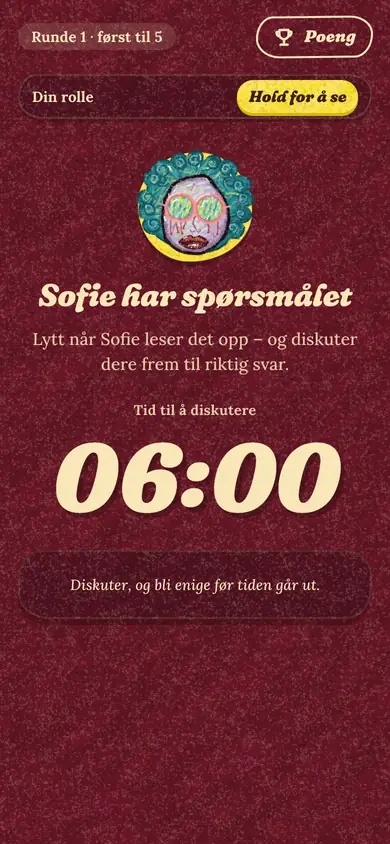
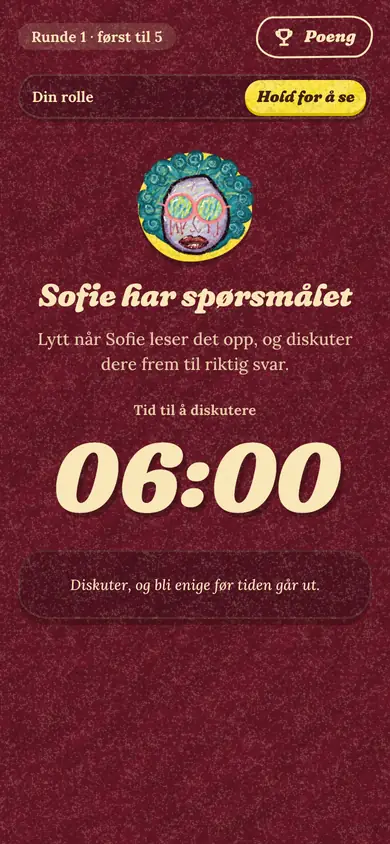
Seks småendringer: rolleskjermen, «Bli med i spill», «Velkommen!» og ingen unødvendige tankestreker
- Under «Hold for å se rollen din» står nå «Skjul rollen din godt!» (var «Hold telefonen inntil deg og dekk til med hånda.»).
- Rollekortet til en lojal spiller er bare rollen: «Riktig svar: Finn det sammen» er fjernet (og i en runde med to imposterer også
  «Imposterne: Finn dem sammen», som sa like lite). Kortet er sentrert og litt større. Imposteren ser fortsatt riktig svar.
- Rollestripen: mer luft under «Riktig svar», og «Hold for å se» står like langt fra høyre kant som fra toppen (8,4 px i holdt tilstand,
  6,4 px i hvile; den trykkede knappen sitter 2 px lavere). For at imposter med partner (holdt) fortsatt skal passe på 390 x 664, har
  klokkefeltet litt mindre luft på lave skjermer.
- «Bli med i spill» på forsiden er en kremfarget knapp som «Min tilgang» og «Se pakkene» (var en omriss-knapp).
- Arket etter betaling heter «Velkommen!» (var «Takk!»), og siste setning er «Den står også i bestillingsbekreftelsen på e-post.»
  Samme ord i hjelpeteksten under «Logg inn» og i feilmeldingen fra butikken. Butikkens egen forside sier fortsatt «Takk!».
- Tankestreker er tatt bort fra alt spillere og kunder ser: tipsene, banneret «Verten betaler, spillet fortsetter straks», feilmeldingene
  om navn og avatar, «Det er sagt, vis poengene», «Uavgjort i teten, én runde til!», «Tiden er ute, bli enige …», titlene og beskrivelsene
  på nettsidene, vilkårs- og personverntitlene, stilguiden og Stripe-beskrivelsen. Tallområder (3–10) og kodekommentarer er latt stå.
[…]

Changed region(s): [[0.0923, 0.3697, 0.9231, 0.4313], [0.5846, 0.0924, 0.9538, 0.154]]

diff --git a/public/js/screens/round.js b/public/js/screens/round.js
@@ -31,36 +31,36 @@ export function GameBar({ view }) {
 
 const EYES = { impostor: 'assets/art/eye-impostor.svg', loyal: 'assets/art/eye-loyal.svg' };
 const TIPS = {
-  impostor: 'Få de andre til å svare feil – uten å bli avslørt.',
-  impostorDuo: 'Hjelp hverandre med å få de andre til å svare feil – uten å bli avslørt.',
-  loyal: 'Finn ut hva som er riktig svar sammen – og ikke la imposteren lure dere.',
-  loyalDuo: 'Finn ut hva som er riktig svar sammen – og ikke la imposterne lure dere.',
+  impostor: 'Få de andre til å svare feil, uten å bli avslørt.',
+  impostorDuo: 'Hjelp hverandre med å få de andre til å svare feil, uten å bli avslørt.',
+  loyal: 'Finn ut hva som er riktig svar sammen, og ikke la imposteren lure dere.',
+  loyalDuo: 'Finn ut hva som er riktig svar sammen, og ikke la imposterne lure dere.',
 };
 
 /**
- * The card that appears while the button is held. Both roles get a card of the same size: the loyal player's answer is a "?".
- * With two impostors the card has a third part, "Imposterne": the impostors see who they are, the loyal players a "?".
+ * The card that appears while the button is held. A loyal player has nothing to look up, so the card is only the role. The
+ * impostor's has the right answer too, and with two impostors a third part, "Imposterne": who they are.
  */
 function RoleCard({ you, count }) {
   const impostor = you.role === 'impostor';
   const mates = matesOf(you);
-  return html`<article class=${cx('rolecard pop-in', count > 1 && 'rolecard--duo')}>
+  return html`<article class=${cx('rolecard pop-in', impostor && count > 1 && 'rolecard--duo', !impostor && 'rolecard--loyal')}>
     <div class="rolecard__head">
       <img class="rolecard__eye" src=${asset(EYES[you.role])} alt="" width="400" height="300" />
       <h1 class=${cx('rolecard__word', impostor ? 'rolecard__word--impostor' : 'rolecard__word--loyal')}>${impostor ? 'Imposter' : 'Lojal'}</h1>
     </div>
-    <div class="rolecard__answer">
+    ${impostor &&
+    html`<div class="rolecard__answer">
       <span class="rolecard__label">Riktig svar</span>
-      <p class="rolecard__pill"><span class="rolecard__dot">${impostor ? you.secret.letter : '?'}</span>${impostor ? you.secret.text : 'Finn det sammen'}</p>
-    </div>
-    ${count > 1 &&
+      <p class="rolecard__pill"><span class="rolecard__dot">${you.secret.letter}</span>${you.secret.text}</p>
+    </div>`}
+    ${impostor &&
+    count > 1 &&
     html`<div class="rolecard__answer">
       <span class="rolecard__label">Imposterne</span>
       <p class="rolecard__pill">
-        ${impostor && mates.length > 0
-          ? html`<${Avatar} id=${mates[0].avatar} size="xs" class="rolecard__mate" label=${mates[0].name} />`
-          : html`<span class="rolecard__dot">?</span>`}
-        ${impostor ? joinNames(['Du', ...mates.map((m) => m.name)]) : 'Finn dem sammen'}
+        ${mates.length > 0 && html`<${Avatar} id=${mates[0].avatar} size="xs" class="rolecard__mate" label=${mates[0].name} />`}
+        ${joinNames(['Du', ...mates.map((m) => m.name)])}
       </p>
     </div>`}
   </article>`;
@@ -93,7 +93,7 @@ export function RoleReveal({ view }) {
       </div>
     </div>
     <div class="role__hold">
-      <p class="role__hint">${held ? TIPS[you.role + (count > 1 ? 'Duo' : '')] : 'Hold telefonen inntil deg og dekk til med hånda.'}</p>
+      <p class="role__hint">${held ? TIPS[you.role + (count > 1 ? 'Duo' : '')] : 'Skjul rollen din godt!'}</p>
       <button type="button" class=${cx('btn btn--block hold-btn', held && 'is-held')} ...${bind} aria-label="Hold inne for å se rollen din">
         ${held ? 'Slipp for å skjule' : 'Hold for å se rollen din'}
       </button>
@@ -135,7 +135,7 @@ export function Question({ view }) {
       </div>
       <${Button} variant="cream" size="small" onClick=${() => actions.addTime(60)} aria-label="Legg til ett minutt">+1</${Button}>
     </div>
-    ${ms <= 0 && html`<p class="timeup">Tiden er ute – bli enige og lås svaret!</p>`}
+    ${ms <= 0 && html`<p class="timeup">Tiden er ute, bli enige og lås svaret!</p>`}
 
     <section class="card card--paper stack stack--tight question__card">
       <p class="eyebrow" style="color:var(--ink);opacity:.78">Les høyt for de andre</p>
@@ -173,13 +173,13 @@ export function Discussion({ view }) {
     <section class="center stack" style="align-items:center;margin-top:var(--s-4)">
       <${Avatar} id=${asker?.avatar} size="lg" alive offline=${asker && !asker.connected} />
       <h2>${asker?.name} har spørsmålet</h2>
-      <p class="muted discussion__hint">Lytt når ${asker?.name} leser det opp – og diskuter dere frem til riktig svar.</p>
+      <p class="muted discussion__hint">Lytt når ${asker?.name} leser det opp, og diskuter dere frem til riktig svar.</p>
     </section>
 
     <section class="timer-block center stack stack--tight">
       <p class="eyebrow">Tid til å diskutere</p>
       <${Timer} endsAt=${view.discussion.endsAt} />
-      ${ms <= 0 && html`<p class="timeup">Tiden er ute – bli enige! ${asker?.name} låser svaret.</p>`}
+      ${ms <= 0 && html`<p class="timeup">Tiden er ute, bli enige! ${asker?.name} låser svaret.</p>`}
     </section>
 
     <p class="card card--deep center discussion__tip">Diskuter, og bli enige før tiden går ut.</p>
@@ -225,10 +225,10 @@ function RevealStage({ view, asker = false }) {
       <p class="lead">${count > 1 ? 'Imposterne sier riktig svar sammen.' : 'Imposteren sier riktig svar høyt.'}</p>
     </div>
     ${asker
-      ? html`<div class="dock"><${Button} block variant="cream" onClick=${() => actions.proceed()}>Det er sagt – vis poengene</${Button}></div>`
+      ? html`<div class="dock"><${Button} block variant="cream" onClick=${() => actions.proceed()}>Det er sagt, vis poengene</${Button}></div>`
       : html`<div class="foot center">
           <p class="muted" role="status">${holder?.name ?? 'Spilleren med spørsmålet'} trykker videre når det er sagt.</p>
-          ${stuck && html`<${Button} variant="cream" onClick=${() => actions.proceed()}>${holder.name} er borte – gå videre</${Button}>`}
+          ${stuck && html`<${Button} variant="cream" onClick=${() => actions.proceed()}>${holder.name} er borte, gå videre</${Button}>`}
         </div>`}
   </main>`;
 }
@@ -255,7 +255,7 @@ export function Summary({ view }) {
       <p class="lead muted">${recap}</p>
     </header>
 
-    ${s.tiebreak && html`<p class="chip chip--yellow center" role="status" style="align-self:center">Uavgjort i teten – én runde til!</p>`}
+    ${s.tiebreak && html`<p class="chip chip--yellow center" role="status" style="align-self:center">Uavgjort i teten, én runde til!</p>`}
 
     <section class="card stack">
       <${Scoreboard} view=${view} gains=${s.gained} />

diff --git a/public/design-system/index.html b/public/design-system/index.html
@@ -3,7 +3,7 @@
 <head>
   <meta charset="utf-8">
   <meta name="viewport" content="width=device-width, initial-scale=1, viewport-fit=cover">
-  <title>Disputt – designsystem</title>
+  <title>Designsystem for Disputt</title>
   <meta name="description" content="Disputts designsystem: farger, typografi, kritt-teksturer, avatarer og komponenter.">
   <meta name="theme-color" content="#3d0a18">
   <link rel="icon" href="../assets/icons/favicon-32.png?v=2" type="image/png" sizes="32x32">
@@ -42,7 +42,7 @@
   <section class="ds-hero">
     <p class="eyebrow">Designsystem · versjon 1</p>
     <h1>Kritt på burgunder.</h1>
-    <p class="lead">Disputt er et sosialt spill om å lure – og å avsløre. Utseendet er surrealistisk og lekent, tegnet med fargestifter på mørk burgunder: flate kritt-farger med strek og korn oppå, former som aldri er helt rette, og øyne som ser på deg.</p>
+    <p class="lead">Disputt er et sosialt spill om å lure og å avsløre. Utseendet er surrealistisk og lekent, tegnet med fargestifter på mørk burgunder: flate kritt-farger med strek og korn oppå, former som aldri er helt rette, og øyne som ser på deg.</p>
     <p class="ds-note">Alt på denne siden bruker de samme CSS-filene som spillet (<code>/css/tokens.css</code>, <code>base.css</code>, <code>components.css</code>, <code>screens.css</code>). Endrer du en token, endres både spillet og denne siden.</p>
   </section>
 
@@ -107,11 +107,11 @@
       <h2>Farger</h2>
       <p>Paletten er plukket fra referansetegningene (gul papirbunn, rødrosa «kropp», lime, oransje, blå, fiolett og turkis fra briller-damen). Burgunder er scenen. Heksverdi og kontrast leses fra tokens ved innlasting. «AA» betyr at kombinasjonen tåler brødtekst, «stor» at den bare tåler overskrifter.</p>
     </header>
-    <h3>Burgunder – siden</h3>
+    <h3>Burgunder: siden</h3>
     <div class="ds-grid" id="sw-burgundy"></div>
-    <h3>Kritt – det man tegner med</h3>
+    <h3>Kritt: det man tegner med</h3>
     <div class="ds-grid" id="sw-crayon"></div>
-    <h3>Rollefarger – bare fargen på ordet</h3>
+    <h3>Rollefarger: bare fargen på ordet</h3>
     <div class="ds-grid" id="sw-role"></div>
     <h3>Papir og blekk</h3>
     <div class="ds-grid" id="sw-paper"></div>
@@ -139,7 +139,7 @@
     <div class="ds-grid ds-grid--wide">
       <div class="ds-stack"><h3>Regler</h3><p class="ds-note">Fraunces brukes til overskrifter, knapper, tall og navn på store flater. Lora brukes til alt annet. Aldri kursiv på Fraunces (filen er allerede kursiv). Aldri mer enn to linjer i en knapp.</p></div>
       <div class="ds-stack"><h3>Tall i faste celler</h3><p class="ds-note">Fraunces har proporsjonale sifre, så klokka tegner hvert siffer i en fast celle (<code>.timer__d</code>, 0,66&nbsp;em). Da hopper ikke tallene når sekundene går.</p></div>
-      <div class="ds-stack"><h3>Fontfiler</h3><p class="ds-note"><code>fraunces-italic.woff2</code> (69&nbsp;kB, vekt 600–900, optisk størrelse 48–144) og <code>lora.woff2</code> / <code>lora-italic.woff2</code> (35 + 38&nbsp;kB). Bygges med <code>npm run fonts</code>.</p></div>
+      <div class="ds-stack"><h3>Fontfiler</h3><p class="ds-note"><code>fraunces-italic.woff2</code> (69&nbsp;kB, vekt 600 til 900, optisk størrelse 48 til 144) og <code>lora.woff2</code> / <code>lora-italic.woff2</code> (35 + 38&nbsp;kB). Bygges med <code>npm run fonts</code>.</p></div>
     </div>
   </section>
 
@@ -216,7 +216,7 @@
         <button class="btn btn--cream btn--icon" aria-label="Pluss">+</button>
         <button class="btn btn--text">Tekstknapp</button>
       </div>
-      <p class="ds-note">Gul er primær, lime er «gå!» (start, lås svaret), rosa og oransje er sjeldne og farlige. Minst 3,6&nbsp;rem høy (≈ 58&nbsp;px) – lett å treffe med tommel.</p>
+      <p class="ds-note">Gul er primær, lime er «gå!» (start, lås svaret), rosa og oransje er sjeldne og farlige. Minst 3,6&nbsp;rem høy (≈ 58&nbsp;px), lett å treffe med tommel.</p>
     </div>
 
     <h3>Felt</h3>
@@ -347,9 +347,9 @@
 
     <h3>Meldinger og overlegg</h3>
     <div class="ds-grid ds-grid--wide">
-      <div class="ds-toast-preview"><div class="toast" role="status">Det navnet er tatt – velg et annet.</div></div>
-      <div class="ds-banner-preview"><div class="banner" role="status">Mistet forbindelsen – kobler til igjen</div></div>
-      <div class="ds-banner-preview"><div class="banner" role="status">Verten betaler – spillet fortsetter straks</div></div>
+      <div class="ds-toast-preview"><div class="toast" role="status">Det navnet er tatt, velg et annet.</div></div>
+      <div class="ds-banner-preview"><div class="banner" role="status">Mistet forbindelsen, kobler til igjen</div></div>
+      <div class="ds-banner-preview"><div class="banner" role="status">Verten betaler, spillet fortsetter straks</div></div>
       <div class="ds-stack"><button class="btn btn--small" data-toggle-sheet="ds-sheet">Vis / skjul sheet</button>
         <div class="ds-sheet-preview" id="ds-sheet" hidden><div class="sheet-backdrop"><div class="sheet"><div class="sheet__head"><h2>Poengtavle</h2><button class="btn btn--ghost btn--small btn--icon" aria-label="Lukk">✕</button></div><p class="muted">Sheets glir opp nedenfra og dekker maks 90&nbsp;% av høyden.</p></div></div></div>
       </div>
@@ -382,7 +382,7 @@
     <header><h2>Tone</h2><p>Kort, lekent og litt uhyggelig. Vi snakker til gruppa som til venner rundt et bord. Norsk bokmål, aldri teknisk.</p></header>
     <div class="ds-grid ds-grid--wide">
       <div class="ds-do"><strong>Slik</strong><p class="ds-note">«Diskuter, manipuler og vinn.» · «Én av dere vet svaret og vil lure dere.» · «Se på hverandre!» · «Imposteren avslører seg!» · «Gruppa hadde rett!»</p></div>
-      <div class="ds-dont"><strong>Ikke slik</strong><p class="ds-note">«Operasjon feilet.» · «Ugyldig inndata.» · «Vennligst vent mens systemet behandler forespørselen.» Feilmeldinger sier hva som skjedde og hva man kan gjøre: «Det navnet er tatt – velg et annet.»</p></div>
+      <div class="ds-dont"><strong>Ikke slik</strong><p class="ds-note">«Operasjon feilet.» · «Ugyldig inndata.» · «Vennligst vent mens systemet behandler forespørselen.» Feilmeldinger sier hva som skjedde og hva man kan gjøre: «Det navnet er tatt, velg et annet.»</p></div>
       <div class="ds-stack"><h3>Navn på ting</h3><p class="ds-note"><strong>Imposter</strong> (han/hun som vet svaret; to fra seks spillere, og i flertall «imposterer»), <strong>lojal</strong> (alle andre), <strong>den som har spørsmålet</strong> (leser høyt og låser svaret), <strong>vert</strong> (startet spillet). Poeng, ikke «score».</p></div>
     </div>
   </section>

diff --git a/public/js/screens/pay.js b/public/js/screens/pay.js
@@ -185,7 +185,7 @@ export function LoginSheet() {
         ${error && html`<span class="field__error" id="pass-code-error" role="alert">${error}</span>`}
       </div>
       <${Button} block type="submit" disabled=${!valid || busy}>${busy ? 'Sjekker …' : 'Hent tilgangen'}</${Button}>
-      <p class="small muted">${shopify ? 'Koden står i e-posten du fikk fra butikken da du betalte, og under Vertsvalg › Min tilgang på telefonen du betalte med.' : 'Koden gjelder uansett om du betalte med Vipps eller Apple Pay. Du fikk den da du betalte («Takk!»-siden), og den står under Vertsvalg › Min tilgang på telefonen du betalte med.'}</p>
+      <p class="small muted">${shopify ? 'Koden står i bestillingsbekreftelsen på e-post, og under Vertsvalg › Min tilgang på telefonen du betalte med.' : 'Koden gjelder uansett om du betalte med Vipps eller Apple Pay. Du fikk den da du betalte («Takk!»-siden), og den står under Vertsvalg › Min tilgang på telefonen du betalte med.'}</p>
       <p class="center"><${Button} variant="text" onClick=${() => setStore({ sheet: null, paywall: true })}>Har du ikke kjøpt ennå? Se pakkene</${Button}></p>
     </form>
   </${Sheet}>`;
@@ -213,11 +213,11 @@ export function ThanksSheet() {
     close();
     if (next) requestNextRound(view);
   };
-  return html`<${Sheet} title="Takk!" onClose=${close}>
+  return html`<${Sheet} title="Velkommen!" onClose=${close}>
     <div class="stack">
       <p class="lead">Du har tilgang${plan && html`: <strong>${plan.name}</strong>`}. ${s.pass && describeValidity(s.pass)}.</p>
       ${s.passCode && html`<${CodeCard} code=${s.passCode} />`}
-      <p class="small muted">Ta vare på koden, for eksempel med et skjermbilde. Med den får du tilgangen tilbake på en ny telefon, uten konto.${s.payments?.provider === 'shopify' ? ' Den står også i e-posten du får fra butikken.' : ''}</p>
+      <p class="small muted">Ta vare på koden, for eksempel med et skjermbilde. Med den får du tilgangen tilbake på en ny telefon, uten konto.${s.payments?.provider === 'shopify' ? ' Den står også i bestillingsbekreftelsen på e-post.' : ''}</p>
       ${away.length > 0 && html`<p class="small center" role="status">Venter på at ${joinNames(away)} kommer tilbake …</p>`}
       <${Button} block variant="lime" onClick=${go}>${next ? `Start runde ${view.round + 1}` : 'Fortsett spillet'}</${Button}>
     </div>

diff --git a/public/css/components.css b/public/css/components.css
@@ -578,7 +578,7 @@
   align-items: center;
   justify-content: space-between;
   gap: var(--s-2) var(--s-3);
-  padding: 0.4rem 0.9rem; /* (as tall as the strip was before it had a button for both roles: the asker's screen is the densest one) */
+  padding: 0.4rem 0.4rem 0.4rem 0.9rem; /* (as tall as the strip was before it had a button for both roles: the asker's screen is the densest one). The button is as far from the right edge as from the top one */
   border-radius: var(--r-input);
   font-weight: 700;
   font-size: var(--fs-small);
@@ -586,7 +586,7 @@
 .role-strip__info { flex: 1 1 9rem; min-width: 0; display: grid; }
 .role-strip strong { font-family: var(--font-display); font-weight: 900; font-size: 1.2rem; letter-spacing: 0.01em; }
 .role-strip--hidden { color: var(--cream); background: var(--tex-grain), var(--tex-dark), var(--surface-deep); box-shadow: inset 0 0 0 2px rgb(var(--cream-rgb) / 0.14), 0 3px 0 var(--edge); }
-.role-strip--open { align-items: flex-start; color: var(--ink); background: var(--tex-grain), var(--cream); box-shadow: 0 3px 0 var(--edge); }
+.role-strip--open { align-items: flex-start; padding-right: 0.525rem; padding-bottom: 0.8rem; color: var(--ink); background: var(--tex-grain), var(--cream); box-shadow: 0 3px 0 var(--edge); } /* (room under the last line; and 2px more on the right, because the pressed button sits 2px lower: it is as far from the right edge as from the top one) */
 /* the first line sits level with the button, whatever comes below it */
 .role-strip__who { line-height: 2.05rem; } /* (as tall as the button) */
 .role-strip__impostor { color: var(--red); }

diff --git a/public/personvern.html b/public/personvern.html
@@ -3,7 +3,7 @@
 <head>
   <meta charset="utf-8">
   <meta name="viewport" content="width=device-width, initial-scale=1, viewport-fit=cover">
-  <title>Personvern – Disputt</title>
+  <title>Personvern i Disputt</title>
   <meta name="description" content="Personvernerklæring for Disputt: hva som behandles hvor, hvorfor, hvor lenge, og dine rettigheter.">
   <meta name="theme-color" content="#6a1428">
   <meta name="color-scheme" content="dark">
@@ -70,7 +70,7 @@
 
   <section>
     <h2>Hvem vi deler med</h2>
-    <p>Bare dem som trengs for å levere tjenesten: Shopify (nettbutikken og betalingen, og Vipps MobilePay for dem som betaler med Vipps), Cloudflare (betalingstjenesten og databasen den bruker), GitHub (nettsiden) og PeerJS (meglertjenesten). Vi selger ikke opplysninger. Noen av dem behandler opplysninger i USA. Det skjer på de vilkårene selskapene selv beskriver i sine personvernerklæringer, for eksempel EU–USAs Data Privacy Framework eller EUs standardavtaler.</p>
+    <p>Bare dem som trengs for å levere tjenesten: Shopify (nettbutikken og betalingen, og Vipps MobilePay for dem som betaler med Vipps), Cloudflare (betalingstjenesten og databasen den bruker), GitHub (nettsiden) og PeerJS (meglertjenesten). Vi selger ikke opplysninger. Noen av dem behandler opplysninger i USA. Det skjer på de vilkårene selskapene selv beskriver i sine personvernerklæringer, for eksempel EU-USAs Data Privacy Framework eller EUs standardavtaler.</p>
   </section>
 
   <section>

diff --git a/public/js/screens/home.js b/public/js/screens/home.js
@@ -21,7 +21,7 @@ export function Home() {
     </div>
     <div class="dock">
       <${Button} block onClick=${() => actions.create()} disabled=${s.conn !== 'open'}>Opprett spill</${Button}>
-      <${Button} block variant="ghost" onClick=${() => setMode('code')}>Bli med i spill</${Button}>
+      <${Button} block variant="cream" onClick=${() => setMode('code')}>Bli med i spill</${Button}>
       <div class="row row--center home__links">
         ${!s.payments?.enabled
           ? html`<${Button} variant="text" onClick=${() => setStore({ sheet: 'rules' })}>Slik spiller du</${Button}>`
@@ -54,7 +54,7 @@ function JoinByCode({ onBack }) {
     <form class="stack stack--loose grow" onSubmit=${submit} style="justify-content:center">
       <div class="stack stack--tight center">
         <h1>Skriv inn koden</h1>
-        <p class="muted">Du finner den på skjermen til verten – eller skann QR-koden med kameraet.</p>
+        <p class="muted">Du finner den på skjermen til verten, eller skann QR-koden med kameraet.</p>
       </div>
       <div class="field">
         <label class="sr-only" for="code">Spillkode</label>

diff --git a/public/css/screens.css b/public/css/screens.css
@@ -200,6 +200,12 @@
   box-shadow: 0 3px 0 rgb(var(--ink-rgb) / 0.25);
 }
 
+/* a loyal player's card is only the role, in the middle of the card's place */
+.rolecard--loyal { align-content: center; }
+.rolecard--loyal .rolecard__head { justify-content: center; gap: 0.3rem 1rem; }
+.rolecard--loyal .rolecard__eye { width: 4.2rem; }
+.rolecard--loyal .rolecard__word { font-size: 2.8rem; }
+
 /* two impostors: the card gets a third part, so it is a little tighter */
 .rolecard--duo { gap: 0.45rem; padding-block: 0.7rem 0.8rem; }
 .rolecard--duo .rolecard__pill { font-size: 1.3rem; }
@@ -324,6 +330,7 @@
   .question { gap: var(--s-2); }
   .question .option { min-height: 3.25rem; }
   .question .option__letter { width: 2.35rem; height: 2.35rem; font-size: 1.4rem; }
+  .timer-block { padding-block: var(--s-1); } /* (the held role strip of an impostor with a partner is the tallest thing on the discussion screen) */
 }
 @media (max-height: 660px) {
   .discussion .avatar--lg { --size: 4.75rem; }

diff --git a/public/index.html b/public/index.html
@@ -4,10 +4,10 @@
   <meta charset="utf-8">
   <meta name="viewport" content="width=device-width, initial-scale=1, viewport-fit=cover">
   <title>Disputt</title>
-  <meta name="description" content="Disputt – et quizspill med uenighetsgaranti. Et sosialt bløff- og diskusjonsspill for 3 eller flere.">
+  <meta name="description" content="Disputt, et quizspill med uenighetsgaranti. Et sosialt bløff- og diskusjonsspill for 3 eller flere.">
   <meta property="og:type" content="website">
   <meta property="og:site_name" content="Disputt">
-  <meta property="og:title" content="Disputt – diskuter, manipuler og vinn">
+  <meta property="og:title" content="Disputt: diskuter, manipuler og vinn">
   <meta property="og:description" content="Et quizspill med uenighetsgaranti. Et sosialt bløff- og diskusjonsspill for 3 eller flere. Én av dere er imposter.">
 <meta property="og:url" content="https://disputt.site/">
 <meta property="og:locale" content="nb_NO">

diff --git a/test/worker.test.js b/test/worker.test.js
@@ -58,7 +58,7 @@ describe('POST /checkout', () => {
     assert.equal(p.get('metadata[plan]'), 'year');
     assert.match(p.get('metadata[code]'), /^[0-9A-Z]{4}-[0-9A-Z]{4}-[0-9A-Z]{4}$/);
     assert.equal(p.get('payment_intent_data[metadata][code]'), p.get('metadata[code]'), 'the payment carries the same code, so that it can be found again');
-    assert.match(p.get('payment_intent_data[description]'), /^Disputt – For ett år \(kode [0-9A-Z-]{14}\)$/);
+    assert.match(p.get('payment_intent_data[description]'), /^Disputt For ett år \(kode [0-9A-Z-]{14}\)$/);
     assert.match(p.get('custom_text[submit][message]'), /angreretten/);
     assert.equal(p.get('consent_collection[terms_of_service]'), null);
     assert.equal(call.headers['stripe-version'], undefined, 'no preview header until Vipps is on');

diff --git a/public/design-system/ds.js b/public/design-system/ds.js
@@ -108,7 +108,7 @@ const SCREENS = [
   ['sheet-scores', 'Poengtavle', 'Åpnes fra alle skjermer. Verten har vertsvalg bak tannhjulet ved siden av «Poeng».'],
   ['pay-gate', 'Pakkene', 'Betalingsmuren: verten får den når «Neste runde» trykkes etter de to gratis rundene. De andre ser den aldri.'],
   ['pay-guest-host-away', 'Verten betaler', 'Gjestene venter mens verten er hos Stripe, og kobler til igjen av seg selv.'],
-  ['pay-thanks', 'Takk!', 'Tilgangen, koden og én knapp som starter runden verten ba om.'],
+  ['pay-thanks', 'Velkommen!', 'Tilgangen, koden og én knapp som starter runden verten ba om.'],
   ['pay-login', 'Logg inn', 'Ingen konto: koden fra kvitteringen gir tilgangen tilbake på en ny telefon.'],
 ];
 const gallery = document.getElementById('screen-gallery');

diff --git a/public/js/app.js b/public/js/app.js
@@ -89,7 +89,7 @@ export function App() {
 
   return html`
     ${s.payBusy && html`<div class="banner" role="status">Sjekker betalingen</div>`}
-    ${offline && html`<div class="banner" role="status">${hostAway ? 'Verten betaler – spillet fortsetter straks' : s.everOpened ? 'Mistet forbindelsen – kobler til igjen' : isP2P ? 'Får ikke kontakt med verten' : 'Får ikke kontakt med serveren'}</div>`}
+    ${offline && html`<div class="banner" role="status">${hostAway ? 'Verten betaler, spillet fortsetter straks' : s.everOpened ? 'Mistet forbindelsen, kobler til igjen' : isP2P ? 'Får ikke kontakt med verten' : 'Får ikke kontakt med serveren'}</div>`}
     ${screen}
     ${sheet}
     ${s.toast && html`<div class="toast" role="alert" key=${s.toast}>${s.toast}</div>`}

diff --git a/shared/game.js b/shared/game.js
@@ -250,10 +250,10 @@ export class Room {
     if (!isAvatarId(avatar)) throw new GameError('bad_avatar', 'Velg en avatar.');
     const others = [...this.players.values()].filter((o) => o.id !== playerId && isReady(o));
     if (others.some((o) => nameKey(o.name) === nameKey(clean))) {
-      throw new GameError('name_taken', 'Det navnet er tatt – velg et annet.');
+      throw new GameError('name_taken', 'Det navnet er tatt, velg et annet.');
     }
     if (others.some((o) => o.avatar === avatar)) {
-      throw new GameError('avatar_taken', 'Den avataren er tatt – velg en annen.');
+      throw new GameError('avatar_taken', 'Den avataren er tatt, velg en annen.');
     }
     p.name = clean;
     p.avatar = avatar;
